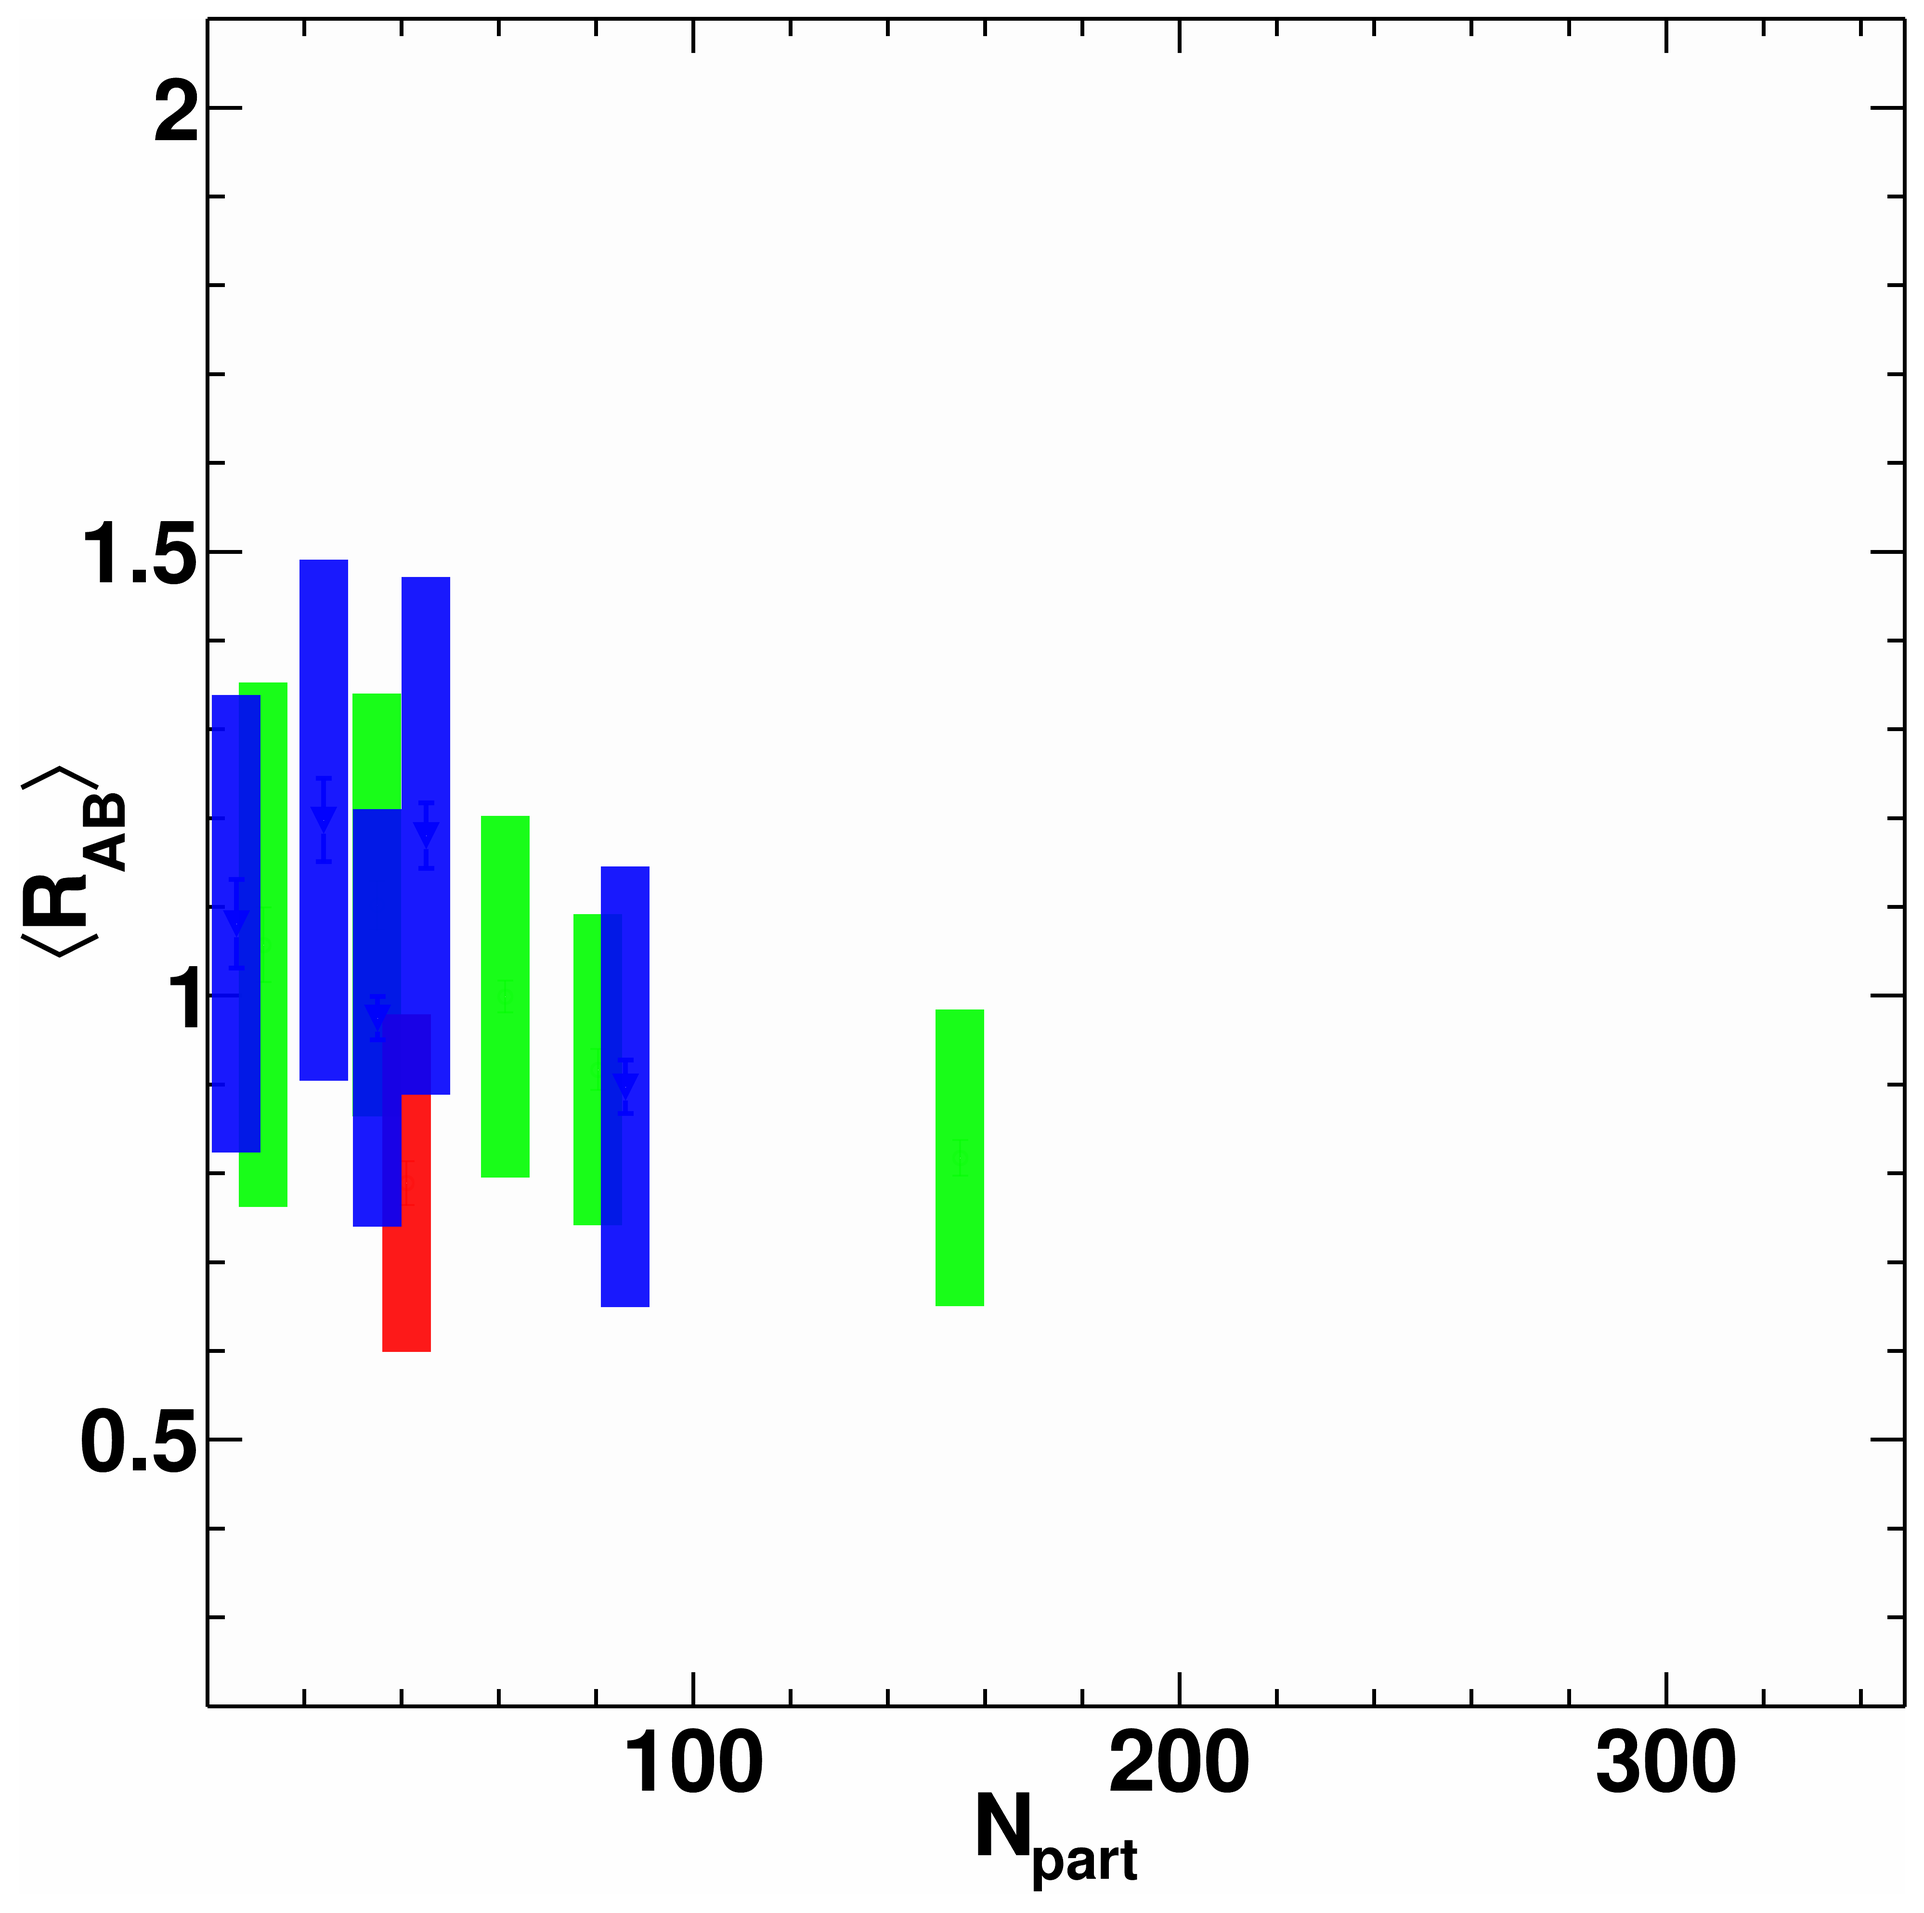
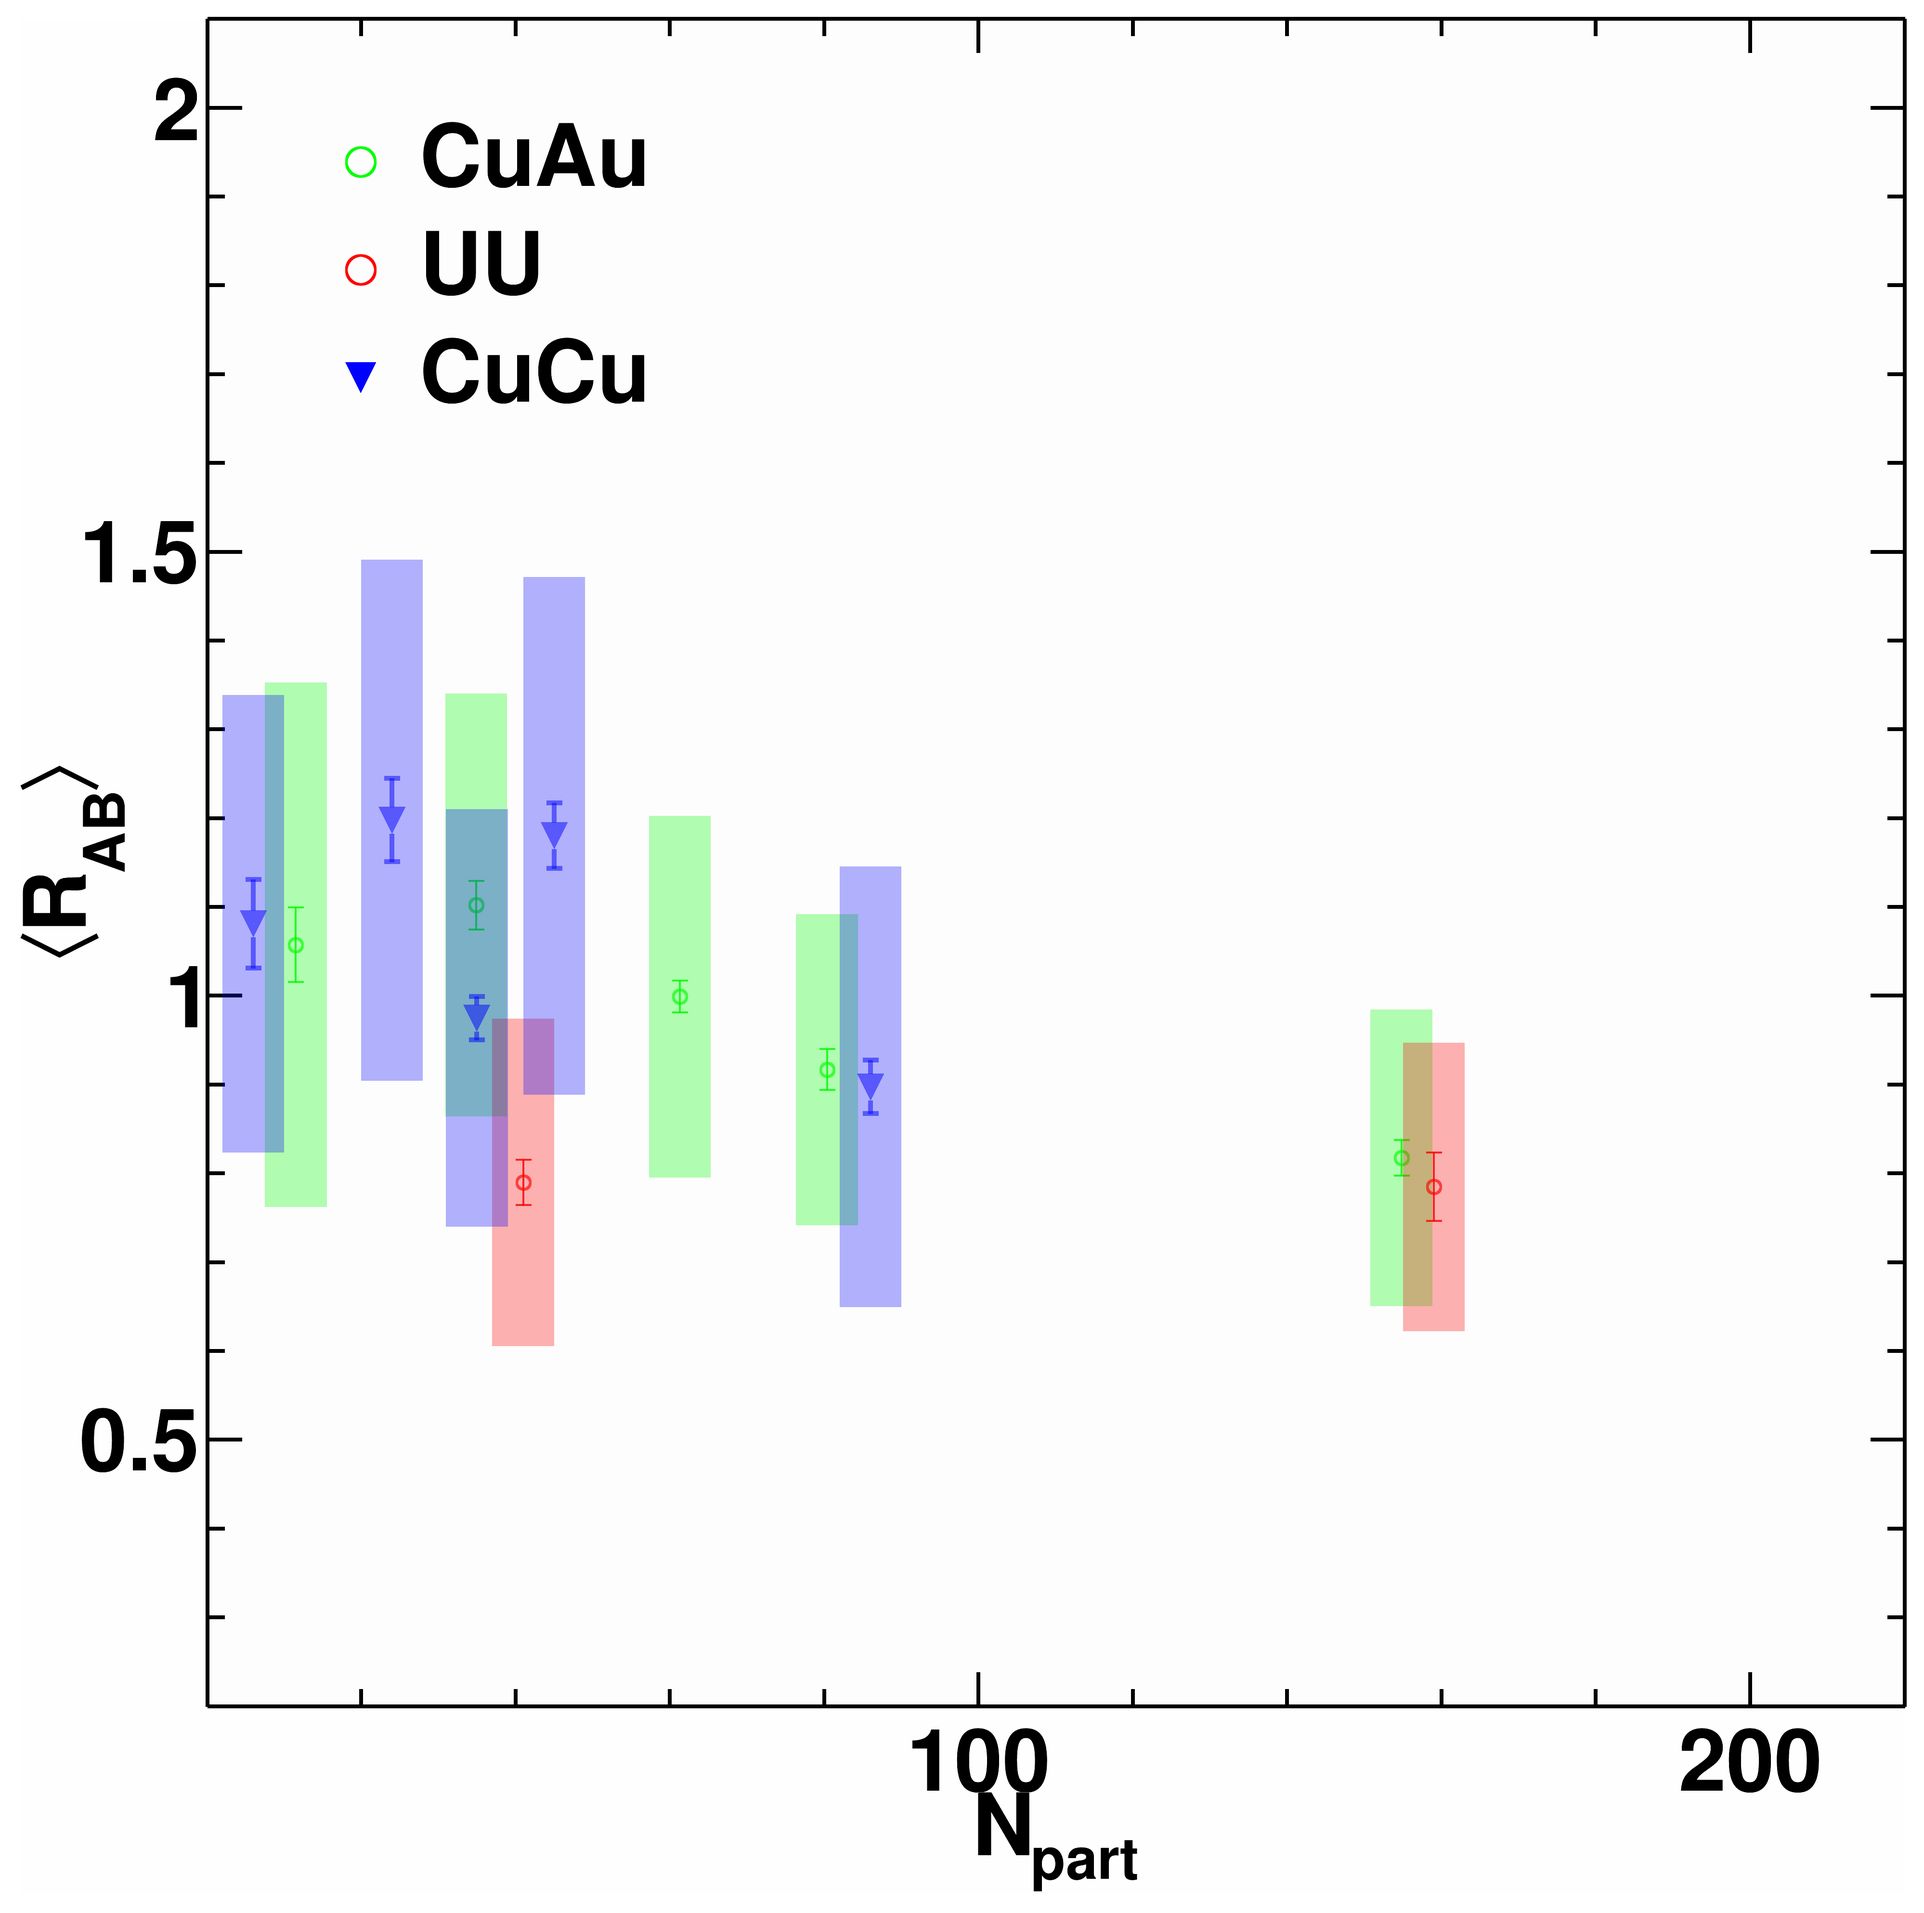
add void for integrated rab in heavy and small collision systems

diff --git a/plotter.cpp b/plotter.cpp
@@ -1203,7 +1203,6 @@ void plotter_rab_cuau_kstar_phi_pi0_eta() {
 
 void plotter_rab_uu_kstar_phi_pi0_eta() {
 
-  auto unity_level = new Particles();
   auto unity = new Particles();
 
 
@@ -1283,29 +1282,29 @@ void plotter_rab_uu_kstar_phi_pi0_eta() {
   c1->Print("ppg_plots/rab_uu_phi_pi_eta.png");
 }
 
-void plotter_for_ppg_integrated_rab() {
+void plotter_for_ppg_integrated_rab_heavy() {
   // 2 - 5 GeV/c
   auto kstar_cuau = new Particles("rab_kstar_cuau", 5, n_kstar_cuau, kGreen, 107);
   kstar_cuau->get_integrated_rab(0, 8);
-  kstar_cuau->int_format_graph(4, 4, 0.5);
-  kstar_cuau->int_format_graph_sys(5, 10, 0.9);
+  kstar_cuau->int_format_graph(4, 4, 0.8);
+  kstar_cuau->int_format_graph_sys(4, 10, 0.3);
 
-  auto kstar_uu = new Particles("rab_kstar_uu", 4, n_kstar_uu, kRed, 107);
-  kstar_uu->get_integrated_rab(2, 9);
-  kstar_uu->int_format_graph(4, 4, 0.5);
-  kstar_uu->int_format_graph_sys(5, 10, 0.9);
+  auto kstar_uu = new Particles("rab_kstar_uu", 3, n_kstar_uu, kRed, 107);
+  kstar_uu->get_integrated_rab(2, 8);
+  kstar_uu->int_format_graph(4, 4, 0.8);
+  kstar_uu->int_format_graph_sys(4, 10, 0.3);
 
   auto kstar_cucu = new Particles("rab_kstar_cucu", 5, n_kstar_cucu, kBlue, 23);
   kstar_cucu->get_integrated_rab(2, 10);
-  kstar_cucu->int_format_graph(7, 10, 0.9);
-  kstar_cucu->int_format_graph_sys(5, 10, 0.9);
+  kstar_cucu->int_format_graph(7, 10, 0.5);
+  kstar_cucu->int_format_graph_sys(4, 10, 0.3);
 
   auto legend = new TLegend(0.4, 0.78, 0.15, 1.01);
   Format_Legend(legend, 62, 0.05, 0, 0, "");
 
-  legend->AddEntry(kstar_cuau->graph_legend(8), "K*^{0}", "p");
-  legend->AddEntry(kstar_uu->graph_legend(8), "phi", "p");
-  legend->AddEntry(kstar_cucu->graph_legend(8), "pi0", "p");
+  legend->AddEntry(kstar_cuau->graph_legend(8), "CuAu", "p");
+  legend->AddEntry(kstar_uu->graph_legend(8), "UU", "p");
+  legend->AddEntry(kstar_cucu->graph_legend(8), "CuCu", "p");
 
 
   auto c2 = new TCanvas("c2", "c2", 4000, 4000);
@@ -1314,7 +1313,7 @@ void plotter_for_ppg_integrated_rab() {
   double par[4] = {0.1, 0.0, 0.1, 0.0};
   SetMarginPad(par);
 
-  double param_pad[] = {0.1, 349, 0.2, 2.1, 0.9, 0.9, 0.05, 0.05, 0, 504, 506, 1};
+  double param_pad[] = {0.1, 220, 0.2, 2.1, 0.9, 0.9, 0.05, 0.05, 0, 504, 506, 1};
   TString pad_title_x = "N_{part}";
   TString pad_title_y = "#LTR_{AB}#GT";
   Format_Pad(param_pad, pad_title_x, pad_title_y);
@@ -1323,12 +1322,79 @@ void plotter_for_ppg_integrated_rab() {
   kstar_uu->int_draw_all();
   kstar_cucu->int_draw_all();
 
+  legend->Draw();
+
   c2->Print("ppg_plots/int_rab_heavy.png");
 
 }
 
+
+void plotter_for_ppg_integrated_rab_small() {
+  // 2 - 5 GeV/c
+  auto unity = new Particles();
+
+  auto kstar_heau = new Particles("rab_kstar_heau", 5, n_kstar_cuau, kGreen, 107);
+  kstar_heau->get_integrated_rab(2, 9);
+  kstar_heau->int_format_graph(4, 4, 0.8);
+  kstar_heau->int_format_graph_sys(0.5, 10, 0.3);
+
+  auto kstar_pau = new Particles("rab_kstar_pau", 4, n_kstar_uu, kRed, 107);
+  kstar_pau->get_integrated_rab(2, 8);
+  kstar_pau->int_format_graph(4, 4, 0.8);
+  kstar_pau->int_format_graph_sys(0.5, 10, 0.3);
+
+  auto kstar_pal = new Particles("rab_kstar_pal", 5, n_kstar_cucu, kBlue, 23);
+  kstar_pal->get_integrated_rab(2, 6);
+  kstar_pal->int_format_graph(7, 10, 0.5);
+  kstar_pal->int_format_graph_sys(0.2, 10, 0.3);
+
+  auto kstar_dau = new Particles("rab_kstar_dau", 5, n_kstar_cucu, kMagenta, 23);
+  kstar_dau->get_integrated_rab(2, 10);
+  kstar_dau->int_format_graph(7, 10, 0.5);
+  kstar_dau->int_format_graph_sys(0.5, 10, 0.3);
+
+  auto kstar_cucu = new Particles("rab_kstar_cucu", 5, n_kstar_cucu, kBlack, 23);
+  kstar_cucu->get_integrated_rab(2, 10);
+  kstar_cucu->int_format_graph(7, 10, 0.5);
+  kstar_cucu->int_format_graph_sys(0.2, 10, 0.3);
+
+  auto legend = new TLegend(0.7, 0.78, 0.95, 1.01);
+  Format_Legend(legend, 62, 0.05, 0, 0, "");
+
+  legend->AddEntry(kstar_heau->graph_legend(8), "HeAu", "p");
+  legend->AddEntry(kstar_pau->graph_legend(8), "pAu", "p");
+  legend->AddEntry(kstar_pal->graph_legend(8), "pAl", "p");
+  legend->AddEntry(kstar_dau->graph_legend(8), "dAu", "p");
+  legend->AddEntry(kstar_cucu->graph_legend(8), "dAu", "p");
+
+  auto c2 = new TCanvas("c2", "c2", 4000, 4000);
+  Format_Canvas(c2, 1, 1, 0);
+
+  double par[4] = {0.1, 0.0, 0.1, 0.0};
+  SetMarginPad(par);
+
+  double param_pad[] = {0.1, 29, 0.2, 2.1, 0.9, 0.9, 0.05, 0.05, 0, 504, 506, 1};
+  TString pad_title_x = "N_{part}";
+  TString pad_title_y = "#LTR_{AB}#GT";
+  Format_Pad(param_pad, pad_title_x, pad_title_y);
+
+  double params[5] = {param_pad[0], param_pad[1], 7, 1, 10};
+  unity->unity_level(params);
+
+  kstar_heau->int_draw_all();
+  kstar_pau->int_draw_all();
+  kstar_pal->int_draw_all();
+  kstar_dau->int_draw_all();
+  kstar_cucu->int_draw_all();
+
+  legend->Draw();
+
+  c2->Print("ppg_plots/int_rab_small.png");
+
+}
+
 void plotter() {
-  plotter_for_ppg_integrated_rab();
+  plotter_for_ppg_integrated_rab_small();
   // join_plot();
 }
 

diff --git a/particles_data.h b/particles_data.h
@@ -26,10 +26,10 @@ double typec_kstar[num_of_syst][5] = {
         {0.1,   0.1,   0.125, 0.2,  0.11}, // cuau
         {0.085, 0.120, 0.150, 0.185}, // uu
         {0.1,   0.135, 0.12,  0.2,  0.11}, // heau
-        {0.075, 0.08,  0.75,  0.1,  0.06}, // pau
-        {0.06,  0.07,  0.09,  0.06, 0.05}, // pal
+        {0.075, 0.08,  0.075,  0.075}, // pau
+        {0.09,  0.09,  0.06,  0.099}, // pal
         {0.085, 0.09,  0.09,  0.09}, // cucu
-        {} // dau
+        {0.08, 0.085, 0.085, 0.085, 0.085} // dau
 };
 
 TString abcd[] = {"(a)", "(b)", "(c)", "(d)"};
